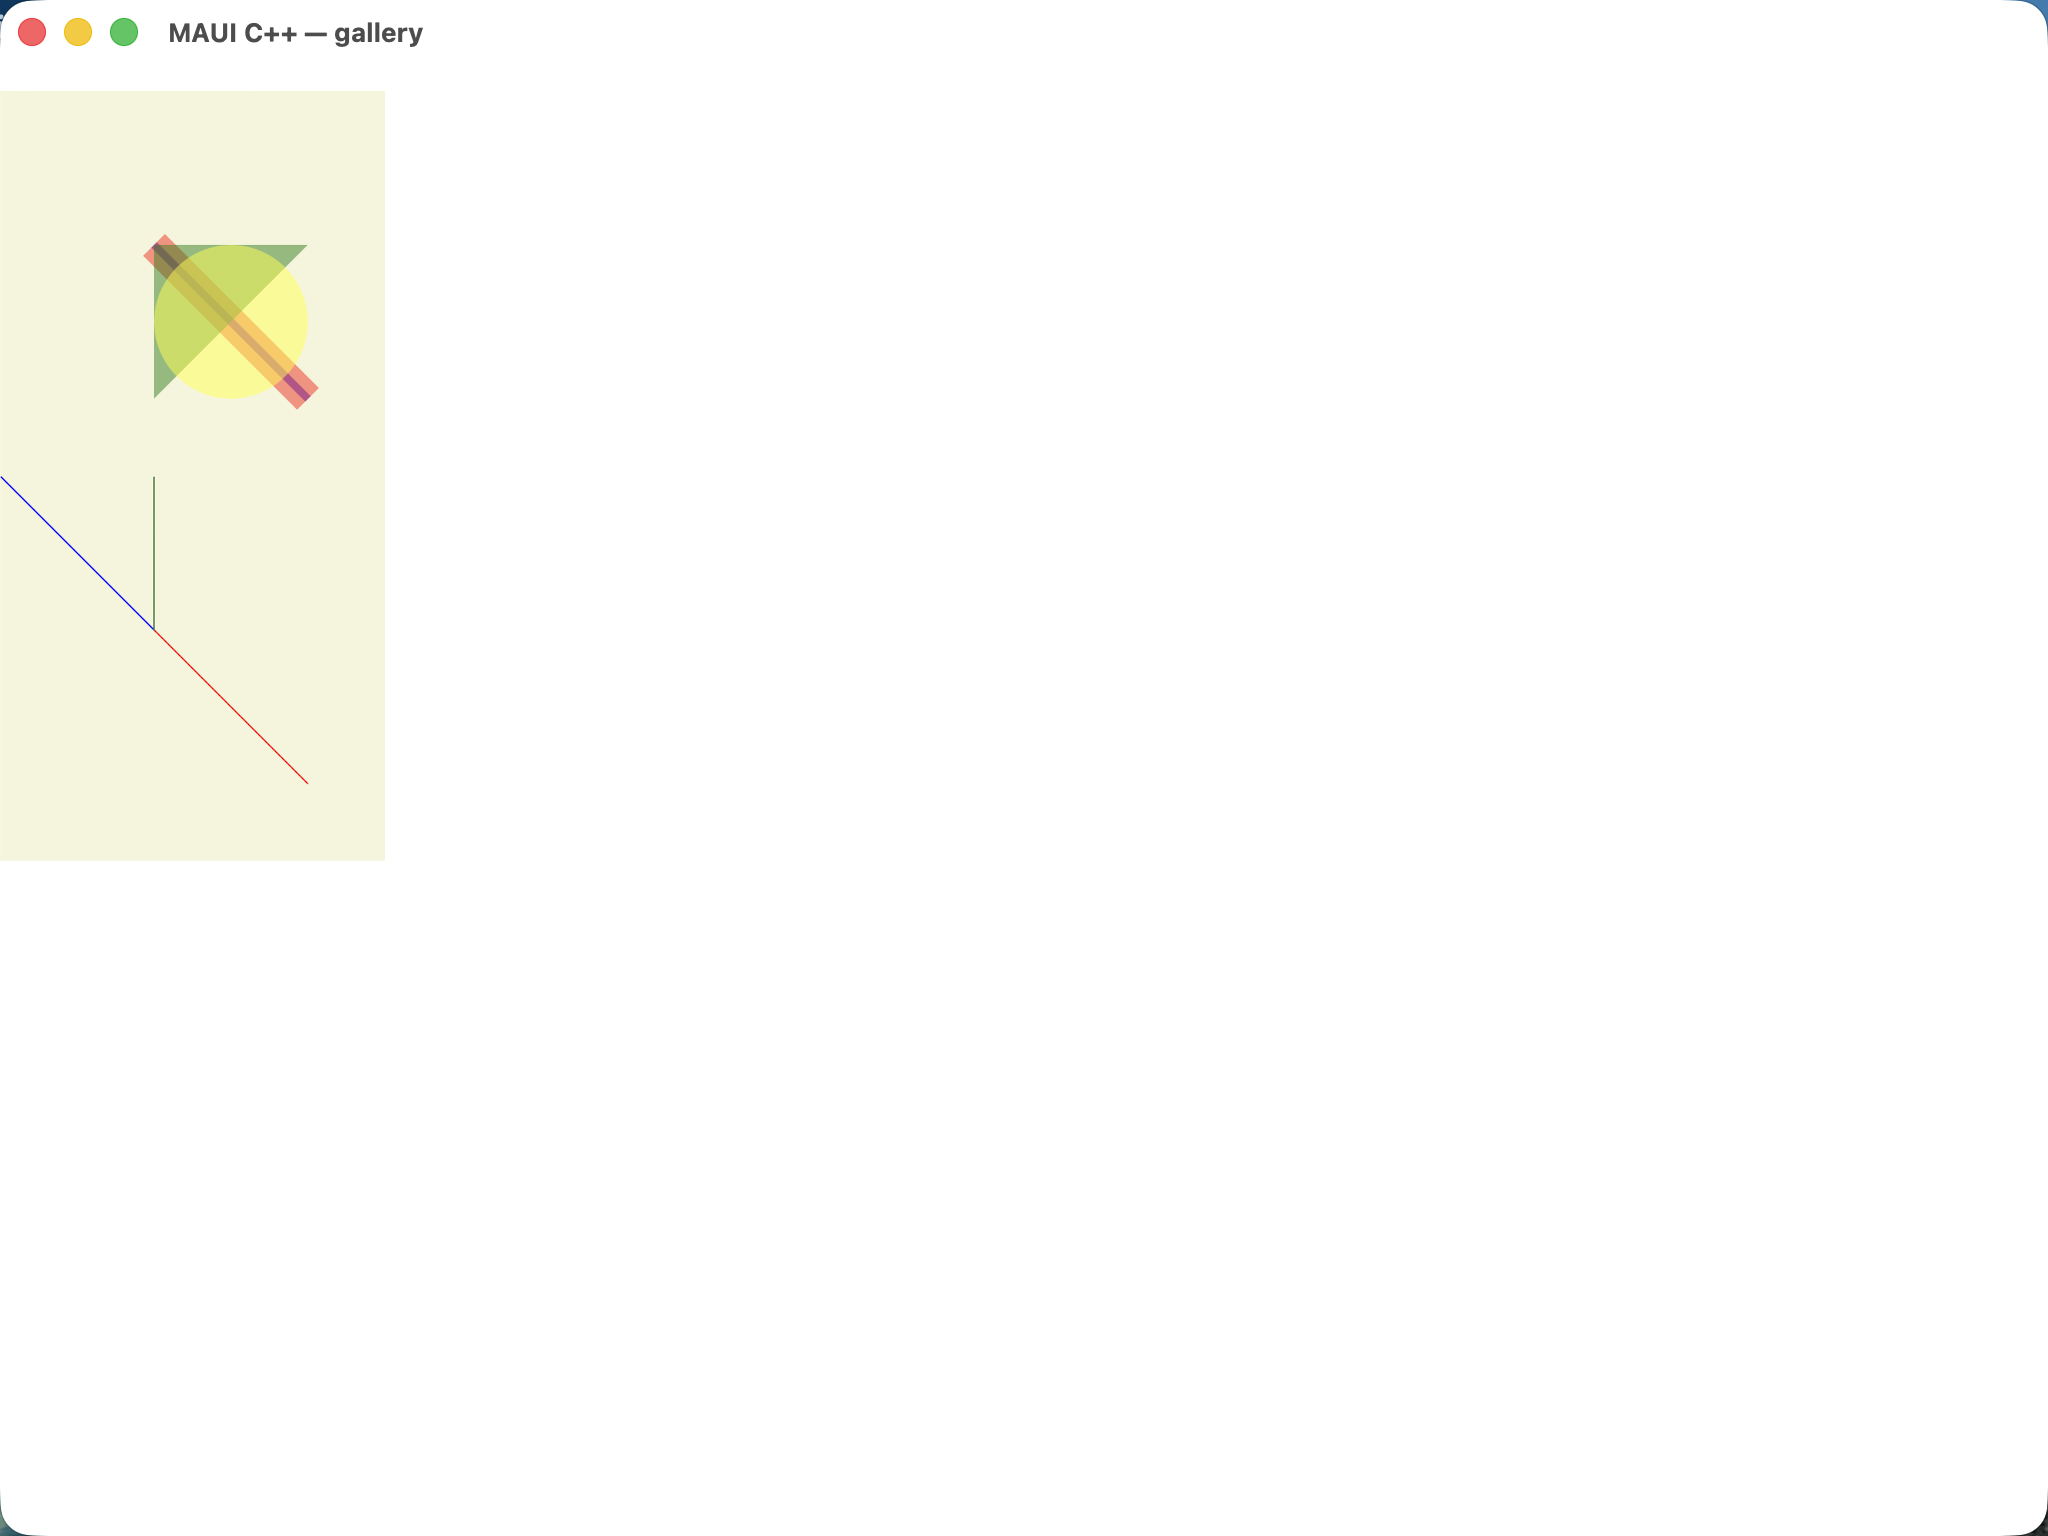
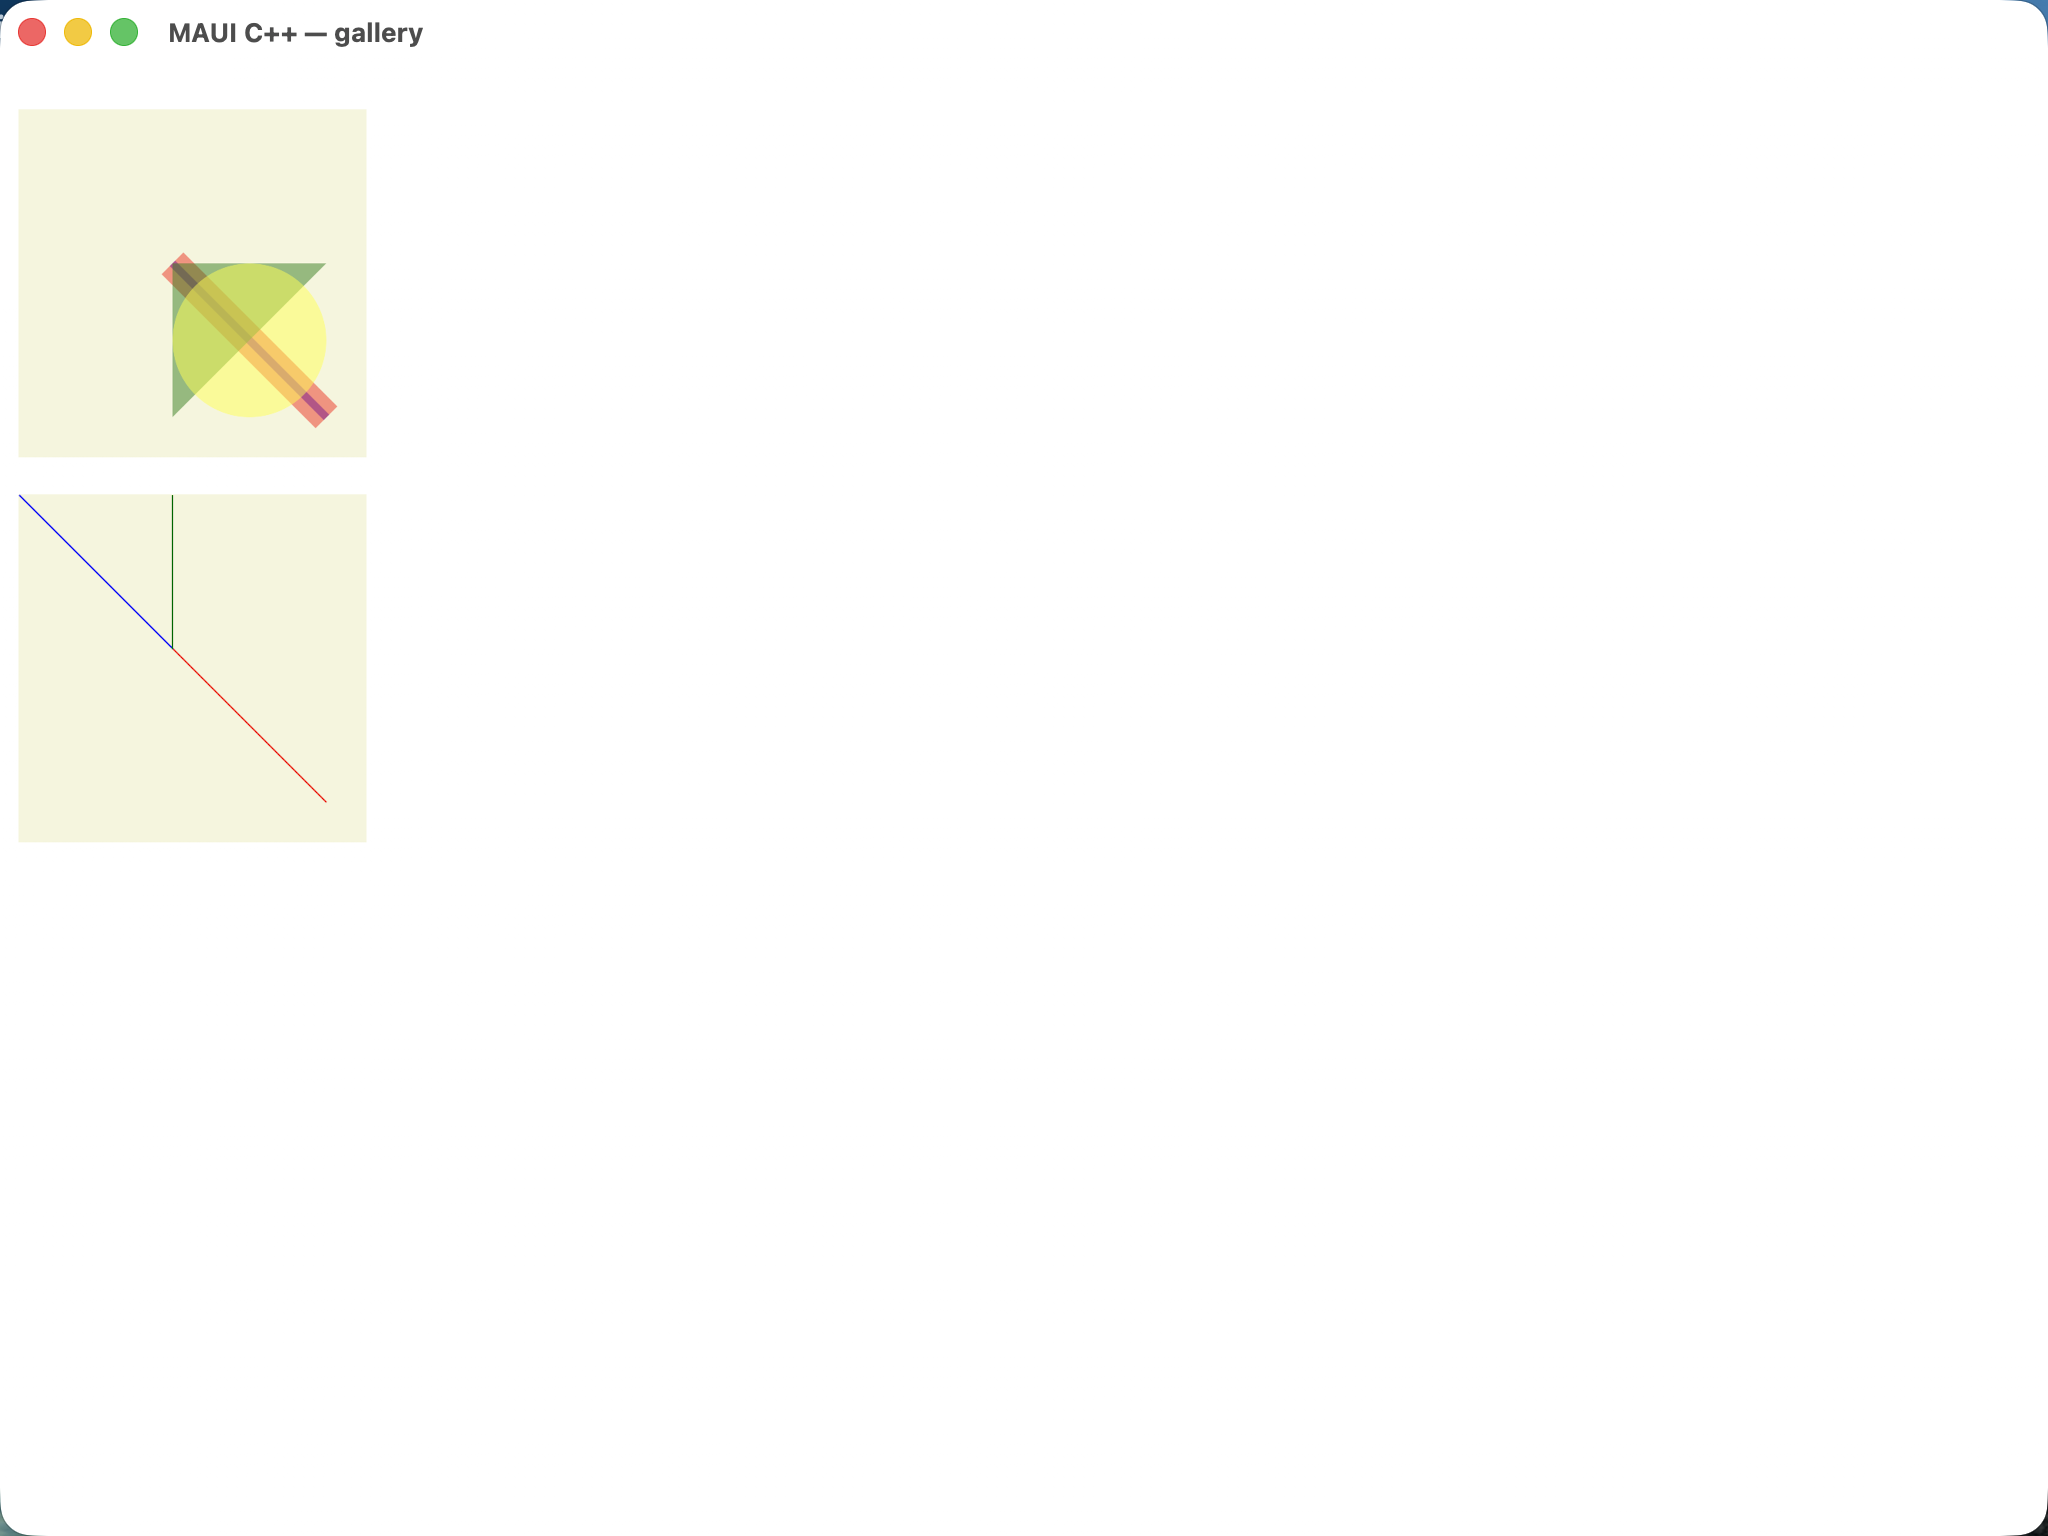
fix(gallery,composition_gallery): apply the Grid Margin=12 (gap between cards)
The two beige 250x250 composition Grids carry Margin="12" in the C# source, but the port omitted it (the
comment said View.Margin wasn't in the ported view surface). View.Margin IS supported now (set_margin, used
by other gallery pages), and that margin IS the visible white GAP between the two pale-yellow cards (plus
their inset from the left edge). Without it the port rendered the two Grids flush as one continuous fill.

Apply set_margin(thickness(12)) to both grids. composition_gallery now shows the gap/inset matching MAUI;
the shape composites themselves were already correct. Gallery page only. maccatalyst rc=0.

Changed region(s): [[0.0, 0.0312, 0.1875, 0.5625]]

diff --git a/port/cpp/examples/gallery/pages/composition_gallery_page.hpp b/port/cpp/examples/gallery/pages/composition_gallery_page.hpp
@@ -27,8 +27,8 @@
 //         250x250 WidthRequest is treated as Center by MAUI's LayoutExtensions.AlignHorizontal (the
 //         Fill+explicit-width → Center rule the port mirrors in view::align_horizontal), so the beige
 //         grids would center; Start left-aligns them like maui-compare.
-//   note: the C# Grids' Margin="12" uses View.Margin, which is not in the ported view surface, so it is
-//         omitted (deferred). BackgroundColor="Beige" → set_background(solid_paint(colors::beige)).
+//   note: the C# Grids' Margin="12" (View.Margin) is applied via set_margin — it is the visible GAP between
+//         the two beige cards (and their inset from the left). BackgroundColor="Beige" → set_background.
 //   note: the first Path's Data "M100 100 200 200" is a move-to (100,100) + implicit line-to (200,200)
 //         per the WPF abbreviated-geometry grammar — parsed via parse_path_figure_collection.
 //   note: the ellipse Path uses an EllipseGeometry (center 150,150, radii 50) directly as the Path.Data
@@ -51,6 +51,7 @@
 #include "maui/controls/shapes/polygon.hpp"
 #include "maui/controls/vertical_stack_layout.hpp"
 #include "maui/core/layout_alignment.hpp"
+#include "maui/core/thickness.hpp"
 #include "maui/graphics/colors.hpp"
 #include "maui/graphics/point.hpp"
 #include "maui/graphics/solid_paint.hpp"
@@ -69,7 +70,8 @@ namespace maui::samples
             grid_one_.set_width_request(250);
             grid_one_.set_height_request(250);
             grid_one_.set_horizontal_layout_alignment(
-                maui::core::layout_alignment::start); // C# Grid HorizontalOptions="Start"
+                maui::core::layout_alignment::start);        // C# Grid HorizontalOptions="Start"
+            grid_one_.set_margin(maui::core::thickness(12)); // C# Grid Margin="12" (the gap between the cards)
 
             // Path "M100 100 200 200" — blue diagonal stroke, thickness 5, opacity .5.
             auto diagonal_geometry = std::make_shared<maui::controls::shapes::path_geometry>();
@@ -110,7 +112,8 @@ namespace maui::samples
             grid_two_.set_width_request(250);
             grid_two_.set_height_request(250);
             grid_two_.set_horizontal_layout_alignment(
-                maui::core::layout_alignment::start); // C# Grid HorizontalOptions="Start"
+                maui::core::layout_alignment::start);        // C# Grid HorizontalOptions="Start"
+            grid_two_.set_margin(maui::core::thickness(12)); // C# Grid Margin="12" (the gap between the cards)
 
             red_line_.set_x1(100);
             red_line_.set_y1(100);
